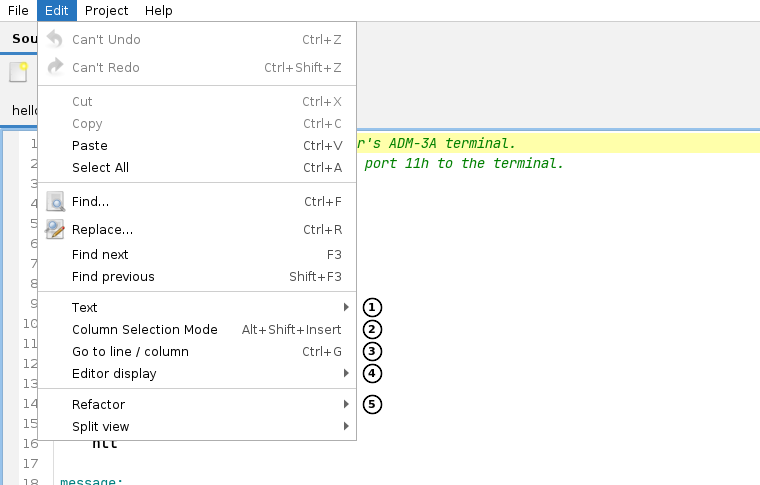
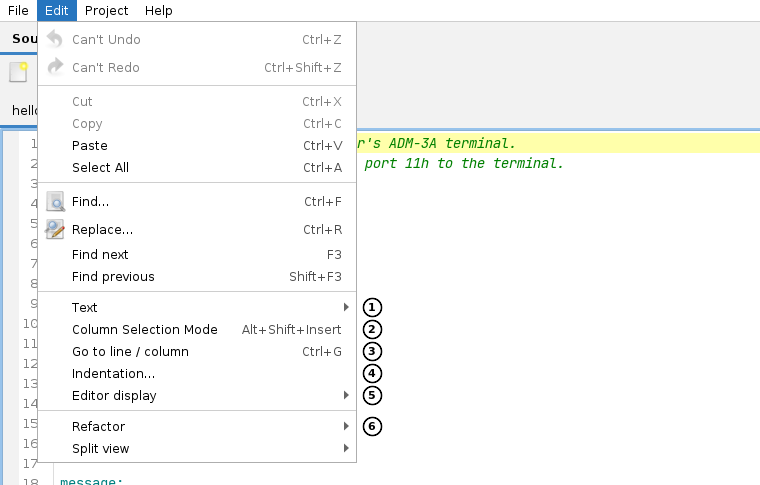
[#479] Document simplified source editor controls

Changed region(s): [[0.0605, 0.7423, 0.2118, 0.9588], [0.4539, 0.8041, 0.5145, 0.9278]]

diff --git a/_documentation/user/_doc/application/configuration.md b/_documentation/user/_doc/application/configuration.md
@@ -36,24 +36,45 @@ plugin root; absolute plugin paths remain unchanged. These options also work aft
 |---|---|---|---|
 | `useSchemaGrid` | `true` / `false` | `true` | Show the grid and snap placement and movement to it in the schema editor. |
 | `schemaGridGap` | positive integer | `20` | Grid spacing in pixels; the editor's slider offers values from `5` to `100`. |
-| `theme` | `"LIGHT"`, `"DARK"` | `"LIGHT"` | Window and control appearance. Unsupported values use `"LIGHT"`. Change the file and restart emuStudio. |
+| `theme` | `"LIGHT"`, `"DARK"` | `"LIGHT"` | Window and control appearance. Unsupported values use `"LIGHT"`.   |
 
 ### Source editor preferences
 
-Use **Edit → Editor display** to change these settings. New source views and later sessions use the saved preferences;
-changing a display option affects the focused view immediately. The other open views keep their current display.
+Use **Edit → Indentation...** to set tab width, choose tabs or spaces, and set alignment columns. Use **Edit → Editor
+display** for the display settings. New source views and later sessions use the saved preferences. Changing a display
+option affects the focused view immediately. The other open views keep their current display.
 
 | Configuration key | Possible values | Default value | Description |
 |---|---|---|---|
-| `editorTabSize` | integer from `1` to `16` | `4` | Indentation width and displayed tab width. |
+| `editorTabSize` | from `1` to `16` | `4` | Indentation width and displayed tab width. |
 | `editorSpaces` | `true` / `false` | `true` | Insert spaces instead of tab characters when indenting. |
 | `editorWhitespace` | `true` / `false` | `false` | Show space and tab markers. |
 | `editorIndentGuides` | `true` / `false` | `false` | Show indentation guides. |
 | `editorWrap` | `true` / `false` | `false` | Wrap long lines in the source view. |
-| `editorFolding` | `true` / `false` | `true` | Enable source folding. |
 
-Column alignment, token colors, and per-file syntax choices are also stored by the editor. Use
-its editing menus to change them. See [Source editing]({{ site.baseurl }}/application/source-editing) for the full command guide.
+See [Source editing]({{ site.baseurl }}/application/source-editing) for the full command guide.
+
+#### Token colors
+
+**Edit → Editor display → Token colors** saves changed colors to top-level keys in `emuStudio.toml` when you choose
+**OK**. Values are signed 32-bit ARGB integers. Omit a key to use the default color shown in the table as RGB hex.
+
+| Token category | Configuration key | Default color |
+|---|---|---|
+| Reserved words | `tokenColorReserved` | <span aria-hidden="true" style="display: inline-block; width: 1em; height: 1em; box-sizing: border-box; border: 1px solid currentColor; vertical-align: middle; background-color: #000000">&nbsp;</span> (`#000000`) |
+| Identifiers | `tokenColorIdentifier` | <span aria-hidden="true" style="display: inline-block; width: 1em; height: 1em; box-sizing: border-box; border: 1px solid currentColor; vertical-align: middle; background-color: #000000">&nbsp;</span> (`#000000`) |
+| Labels / definitions | `tokenColorLabel` | <span aria-hidden="true" style="display: inline-block; width: 1em; height: 1em; box-sizing: border-box; border: 1px solid currentColor; vertical-align: middle; background-color: #008080">&nbsp;</span> (`#008080`) |
+| Directives / blocks | `tokenColorPreprocessor` | <span aria-hidden="true" style="display: inline-block; width: 1em; height: 1em; box-sizing: border-box; border: 1px solid currentColor; vertical-align: middle; background-color: #505050">&nbsp;</span> (`#505050`) |
+| Comments | `tokenColorComment` | <span aria-hidden="true" style="display: inline-block; width: 1em; height: 1em; box-sizing: border-box; border: 1px solid currentColor; vertical-align: middle; background-color: #008000">&nbsp;</span> (`#008000`) |
+| Literals | `tokenColorLiteral` | <span aria-hidden="true" style="display: inline-block; width: 1em; height: 1em; box-sizing: border-box; border: 1px solid currentColor; vertical-align: middle; background-color: #000080">&nbsp;</span> (`#000080`) |
+| Registers | `tokenColorRegister` | <span aria-hidden="true" style="display: inline-block; width: 1em; height: 1em; box-sizing: border-box; border: 1px solid currentColor; vertical-align: middle; background-color: #800000">&nbsp;</span> (`#800000`) |
+| Operators | `tokenColorOperator` | <span aria-hidden="true" style="display: inline-block; width: 1em; height: 1em; box-sizing: border-box; border: 1px solid currentColor; vertical-align: middle; background-color: #000080">&nbsp;</span> (`#000080`) |
+| Separators | `tokenColorSeparator` | <span aria-hidden="true" style="display: inline-block; width: 1em; height: 1em; box-sizing: border-box; border: 1px solid currentColor; vertical-align: middle; background-color: #000000">&nbsp;</span> (`#000000`) |
+| Errors | `tokenColorError` | <span aria-hidden="true" style="display: inline-block; width: 1em; height: 1em; box-sizing: border-box; border: 1px solid currentColor; vertical-align: middle; background-color: #FF0000">&nbsp;</span> (`#FF0000`) |
+
+```toml
+tokenColorComment = -16736256 # Opaque green (ARGB FF00A000)
+```
 
 Computer configurations are separate TOML files in `config/`. Use the
 [Open virtual computer dialog]({{ site.baseurl }}/application/opening-computer) and

diff --git a/_documentation/user/_doc/application/source-editing.md b/_documentation/user/_doc/application/source-editing.md
@@ -24,8 +24,9 @@ act on the whole file; duplicate acts on the current line.
 | <span class="circle">1</span> | **Text**. Duplicate, reorder, or transform source lines. |
 | <span class="circle">2</span> | **Column Selection Mode**. Toggle rectangular selection in the active view. |
 | <span class="circle">3</span> | **Go to line / column**. Move the caret to a source position. |
-| <span class="circle">4</span> | **Editor display**. Change folding, indentation, and display settings. |
-| <span class="circle">5</span> | **Refactor** and **Split view**. Rename or extract code, or open a second view. |
+| <span class="circle">4</span> | **Indentation...**. Set indent width, tabs or spaces, and alignment columns. |
+| <span class="circle">5</span> | **Editor display**. Toggle visible whitespace, indentation guides, and soft wrap. |
+| <span class="circle">6</span> | **Refactor** and **Split view**. Rename or extract code, or open a second view. |
 
 ## Files and tabs
 
@@ -66,26 +67,21 @@ lines, trailing-whitespace cleanup, tab/space conversion, reindentation, and col
 **Uppercase**, **Lowercase**, and **Invert case** transform selected text, including multiple selections, in one undo
 step. With no selection, these case commands leave the text unchanged.
 
-**Edit → Text → Toggle comment** uses the active syntax's comment delimiter. **Edit → Editor display → Indentation settings**
-controls indent width, tabs versus spaces, and columns used by alignment. Alignment uses token boundaries; reindentation
-uses generic block markers supplied by the compiler.
+**Edit → Text → Toggle comment** uses the active syntax's comment delimiter. **Edit → Indentation...** controls
+indent width, tabs versus spaces, and columns used by alignment. Alignment uses token boundaries. Reindentation uses
+generic block markers supplied by the compiler.
 
 ## Navigation
 
 Choose **Edit → Go to line / column** and enter `line:column`, with both numbers starting at 1.
 
-## Folding, display, and splits
+## Display and splits
 
-Use the fold gutter or **Edit → Editor display → Collapse all / Expand all** to fold compiler-provided blocks, multiline comments, and indented
-regions. A comment ending in `region` (optionally followed by a name) and a comment ending in `endregion` mark a custom
-region. Plain text supports `#region` and `#endregion` lines. Fold detection does not recognize assembler keywords in
-the editor.
+**Edit → Editor display** controls visible whitespace, indentation guides, and soft wrap.
+Choose **Edit → Token colors...**, select a token type on the left, and pick its color on the right. Choose **OK** to save changes
+to all edited types or **Cancel** to discard them.
 
-**Edit → Editor display** controls visible whitespace, indentation guides, soft wrap, and token colors.
-Choose **Syntax highlighting** to select the syntax for the focused file: **Default (selected compiler)**,
-**Plain text**, or one of the bundled language modes. This choice also selects that mode's comment and folding rules;
-compilation and compiler-assisted refactoring still use the virtual computer's compiler. Both views of the same file
-share its syntax choice. Choices for saved files are restored on reopening; untitled files keep their choice when saved.
+The virtual computer's compiler provides syntax highlighting and comment delimiters.
 Display and indentation preferences are saved in application settings.
 
 **Edit → Split view → Split current file** opens two views of one document; edits appear in both. **Split with another

diff --git a/_documentation/developer/_doc/compiler/index.md b/_documentation/developer/_doc/compiler/index.md
@@ -250,7 +250,7 @@ default methods and need not support semantic editing.
 
 | Contract | Meaning |
 | --- | --- |
-| `Token.BLOCK_START`, `Token.BLOCK_END` | Properly nested block boundaries used by folding and reindentation. |
+| `Token.BLOCK_START`, `Token.BLOCK_END` | Properly nested block boundaries used by reindentation. |
 | `Token.SYMBOL_DEFINITION`, `Token.SYMBOL_REFERENCE` | Declaration and use of a named symbol in a source-analysis snapshot. |
 | `Token.INCLUDE_PATH`, `getReferencedFile()` | A token identifying another source file, resolved relative to the containing file. |
 | `getSymbolName()` | Spelling beginning at the token offset, without punctuation such as a label's trailing colon. |
@@ -271,8 +271,7 @@ includes, and local-scope includes. Symbols whose scope is unknown cannot be ren
 compile into memory, write output files, or depend on the desktop GUI.
 
 The 8080 and Z80 plugins supply macro/global/local symbol metadata and macro/subroutine extraction. RAM and RASP supply
-global labels. Brainc supplies loop block markers. Folding also supports generic indentation, multiline comments, and
-explicit editor regions, independent of compiler keywords.
+global labels. Brainc supplies loop block markers.
 
 
 [compiler]: {{ site.baseurl }}/emulib_javadoc/net/emustudio/emulib/plugin/compiler/Compiler.html
